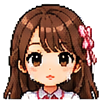
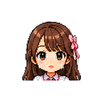
MISS表情を泣き顔に変更し縮小、カットインをキャラに重ねる配置に修正
- MISS時の反応を「悲しい」から「泣く」表情に差し替え、表示サイズも
  縮小（happy/heart反応に比べて大きすぎたため）
- アイドル衣装版の泣き表情（sad_idol.png）も同様に縮小
- コンボ/LIMIT BREAKのカットイン演出を、落下ノーツのレーン上から
  マスコットキャラに重なる位置へ移動

diff --git a/index.html b/index.html
@@ -62,7 +62,6 @@
     <div class="stage">
       <div id="climaxFlash"></div>
       <div id="climaxBanner">LIMIT BREAK!!</div>
-      <div id="cutinWrap"><img id="cutinImg" src="" alt=""></div>
       <div class="judge" id="judgeText"></div>
       <div id="laneField">
         <div class="lane" data-dir="up"><div class="notes" id="notesUp"></div></div>
@@ -81,6 +80,7 @@
 
     <div id="mascotWrap">
       <img id="mascot" src="assets/mascot/idle_a.png" alt="">
+      <div id="cutinWrap"><img id="cutinImg" src="" alt=""></div>
     </div>
     <div class="hint" id="playHint">降ってきたらレーンをタップ！</div>
     <div class="kbd-hint">キーボードでも操作できます　<kbd>&uarr;</kbd><kbd>&darr;</kbd><kbd>&larr;</kbd><kbd>&rarr;</kbd></div>

diff --git a/css/style.css b/css/style.css
@@ -227,10 +227,10 @@ button.ghost{
   100%{ opacity:0; transform:translate(-50%,-50%) scale(1); }
 }
 
-/* Idol cut-in flourish (combo milestone / limit break) */
+/* Idol cut-in flourish (combo milestone / limit break) — overlaps the mascot character */
 #cutinWrap{
-  position:absolute; left:50%; top:50%; transform:translate(-50%,-50%) scale(.6);
-  width:78%; max-width:280px; opacity:0; pointer-events:none;
+  position:absolute; left:50%; top:38%; transform:translate(-50%,-50%) scale(.6);
+  width:210px; max-width:72vw; opacity:0; pointer-events:none;
   border-radius:16px; overflow:hidden; box-shadow:0 12px 40px rgba(0,0,0,.5);
   z-index:5;
 }

diff --git a/js/game.js b/js/game.js
@@ -336,7 +336,7 @@
       idleA: 'assets/mascot/idle_a.png',
       idleB: 'assets/mascot/idle_b.png',
       happy: 'assets/mascot/happy.png',
-      sad: 'assets/mascot/sad.png',
+      sad: 'assets/mascot/cry.png',
       heart: 'assets/mascot/heart.png'
     },
     idol: {
